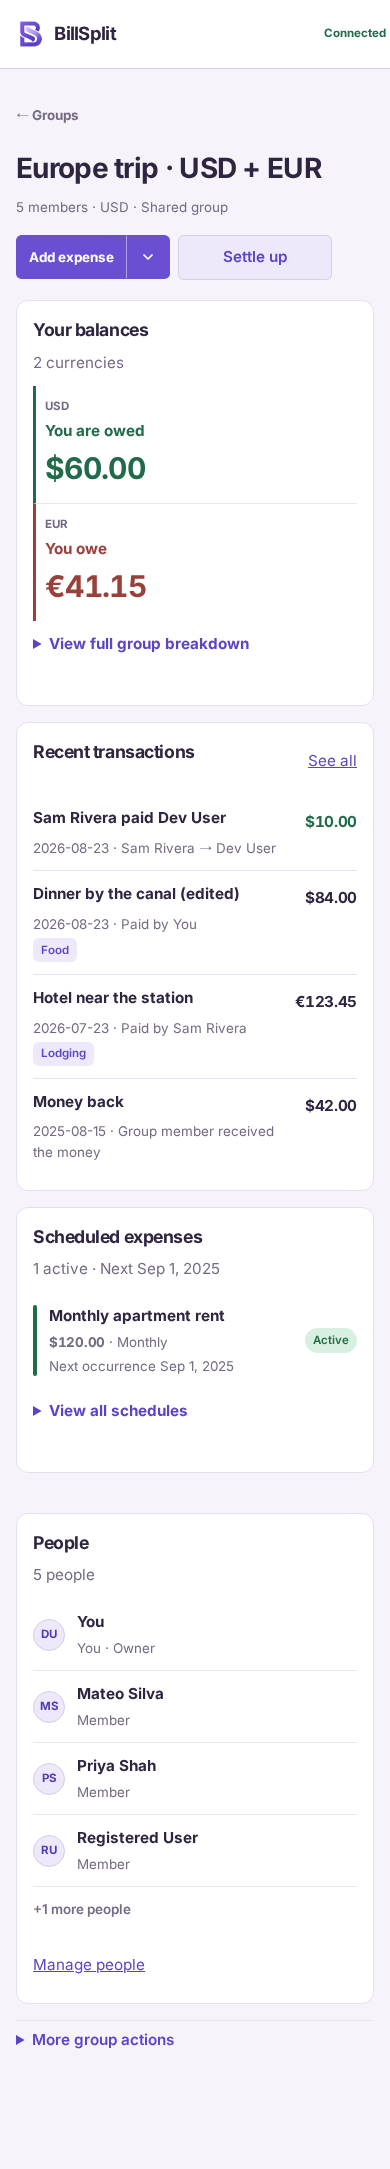
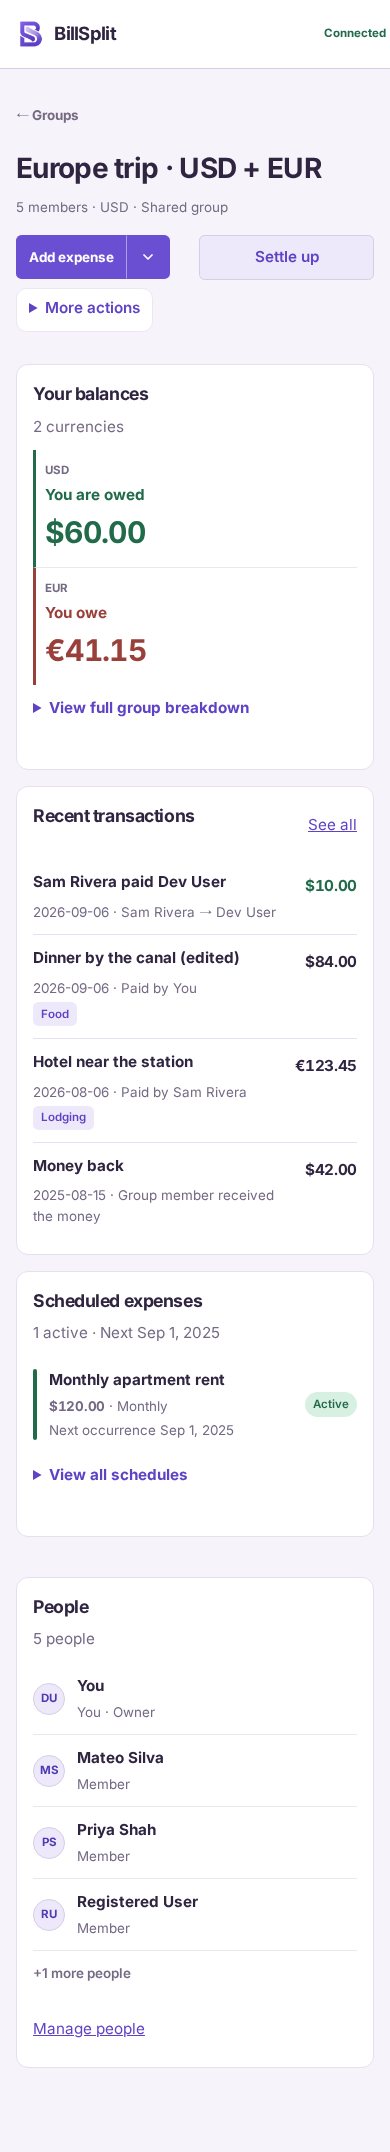
Refresh group history and insights reference screenshots

diff --git a/tests/e2e/group-reference-screenshots.spec.ts b/tests/e2e/group-reference-screenshots.spec.ts
@@ -1,0 +1,60 @@
+import path from 'node:path';
+import type { Page, TestInfo } from '@playwright/test';
+import { test, expect } from './fixtures';
+
+const groupId = '00000000-0000-4000-8000-000000003002';
+
+async function capture(page: Page, testInfo: TestInfo, name: string, fullPage = true) {
+  await page.evaluate(() => document.fonts.ready);
+  const file = `${name}.png`;
+  const destination = process.env.UPDATE_GROUP_SCREENSHOTS === '1'
+    ? path.join(process.cwd(), 'docs', 'screenshots', file)
+    : testInfo.outputPath(file);
+  await page.screenshot({
+    path: destination, fullPage, animations: 'disabled',
+    ...(fullPage ? { style: '.bottom-nav { visibility: hidden !important; }' } : {}),
+  });
+  await testInfo.attach(name, { path: destination, contentType: 'image/png' });
+}
+
+for (const [device, width, height] of [['mobile', 390, 844], ['desktop', 1440, 900]] as const) {
+  test(`seeded group reference screenshots at ${device} size`, async ({ authenticatedPage: page }, testInfo) => {
+    await page.setViewportSize({ width, height });
+    await page.goto(`/groups/${groupId}`);
+    await expect(page.getByRole('heading', { name: 'Recent transactions' })).toBeVisible();
+    await expect(page.getByText('Dinner by the canal (edited)', { exact: true }).first()).toBeVisible();
+    await expect(page.locator('.skeleton')).toHaveCount(0);
+    const tools = page.locator('.group-overview-tools');
+    await expect(tools).toHaveJSProperty('open', false);
+    await expect(page.getByRole('link', { name: 'Settle up', exact: true })).toBeVisible();
+    if (device === 'mobile') {
+      await expect(page.locator('.bottom-nav')).toBeVisible();
+      await capture(page, testInfo, 'group-overview-mobile-viewport', false);
+    }
+    await capture(page, testInfo, `warm-ledger-${device}`);
+    await tools.locator('summary').click();
+    for (const name of ['View spending insights', 'Group history', 'Group settings']) {
+      await expect(tools.getByRole('link', { name, exact: true })).toBeVisible();
+    }
+    await capture(page, testInfo, `group-overview-more-actions-open-${device}`);
+
+    await tools.getByRole('link', { name: 'Group history', exact: true }).click();
+    const back = page.getByRole('link', { name: '← Back to group', exact: true });
+    await expect(back).toHaveAttribute('href', `/groups/${groupId}`);
+    await expect(page.getByRole('combobox', { name: 'Filter history by group' })).toHaveValue(groupId);
+    await expect(page.locator('.skeleton')).toHaveCount(0);
+    await capture(page, testInfo, `warm-ledger-history-${device}`);
+
+    await page.goto(`/activity?group=${groupId}&view=insights&period=all&currency=USD`);
+    await expect(back).toHaveAttribute('href', `/groups/${groupId}`);
+    await expect(page.getByLabel('Spending insight filters').getByRole('combobox', { name: 'Period' })).toHaveValue('all');
+    await expect(page.getByRole('tab', { name: 'USD', exact: true })).toHaveAttribute('aria-selected', 'true');
+    const people = page.getByRole('region', { name: 'Spending by person' });
+    await expect(people).toBeVisible();
+    await expect(people.locator('li').first()).toContainText(/Allocated share.*Paid/s);
+    await expect(people.getByText('Highest payer', { exact: true }).first()).toBeVisible();
+    await expect(page.locator('.skeleton')).toHaveCount(0);
+    await capture(page, testInfo, `spending-insights-group-${device}`);
+    if (device === 'desktop') await capture(page, testInfo, 'warm-ledger-insights-desktop');
+  });
+}

diff --git a/docs/responsive-audit-matrix.md b/docs/responsive-audit-matrix.md
@@ -28,7 +28,7 @@ sections, accessible tabs and chart are checked at 390 and 1440px; other Insight
 widths and Home loading/cached/offline/empty/error states remain in the existing
 route audit and targeted fixtures, not this focused geometry spec.
 
-Loaded local-browser references from the merged-main UI with these fixes:
+Loaded local-browser references (Home/global references retain their earlier capture):
 `docs/screenshots/home-mobile.png` (390px, full page) and `home-desktop.png`
 (1440px viewport) show seeded Home; `home-sgd-stress-mobile.png` (390px,
 full page) and `home-sgd-stress-desktop.png` (1440px viewport) show the
@@ -42,6 +42,33 @@ summary and chart surfaces; `warm-ledger-insights-desktop.png` is the same
 1440px group Insights view. The mobile bottom navigation was confirmed live
 and hidden only for full-page capture to avoid a repeated fixed stripe. These
 references do not depict loading, cached, offline, empty, or error states.
+
+### Repeatable group references
+
+`tests/e2e/group-reference-screenshots.spec.ts` uses the authenticated seeded
+Europe trip group without API mocks. Regenerate only these group references:
+
+```sh
+PLAYWRIGHT_BROWSERS_PATH=/ms-playwright UPDATE_GROUP_SCREENSHOTS=1 npm run test:e2e:local -- tests/e2e/group-reference-screenshots.spec.ts --project=chromium --workers=1
+```
+
+Without the opt-in, captures are test attachments and do not overwrite tracked
+images. Fonts are ready and screenshot animations disabled. Mobile uses 390×844
+and desktop 1440×900 viewports; references are full-page except the explicitly
+named viewport image. Fixed bottom navigation is verified live and hidden only
+for full-page captures, not the viewport reference.
+
+- Closed overview: [mobile](screenshots/warm-ledger-mobile.png),
+  [desktop](screenshots/warm-ledger-desktop.png), and
+  [mobile viewport with fixed navigation](screenshots/group-overview-mobile-viewport.png).
+- Top More actions expanded: [mobile](screenshots/group-overview-more-actions-open-mobile.png)
+  and [desktop](screenshots/group-overview-more-actions-open-desktop.png).
+- Group Changes with Back to group: [mobile](screenshots/warm-ledger-history-mobile.png)
+  and [desktop](screenshots/warm-ledger-history-desktop.png).
+- Loaded group Insights (`period=all&currency=USD`) with real allocated share,
+  paid totals, and highest payer: [mobile](screenshots/spending-insights-group-mobile.png),
+  [desktop](screenshots/spending-insights-group-desktop.png), and the same
+  [Warm Ledger desktop reference](screenshots/warm-ledger-insights-desktop.png).
 
 The refund/reimbursement matrix below remains the release checklist for the
 dedicated online-only refund flow. The Warm Ledger states cover the newer
@@ -248,12 +275,12 @@ captures are distinct group-overview, refund-form, and focused-helper states.
 | Credit detail, deleted/restore | Restore is the only available mutation and is disabled offline | Tombstone copy remains visible | Tombstone copy remains visible | Restore remains a clear recovery action | Restore and error states remain readable without modal-only context | Restore and error states remain readable without modal-only context |
 | Group home / invitations | Financial status leads each group card; invitation actions remain reachable; empty-state actions stack without overlap; spending snapshot stays borderless | Empty and populated states retain separate, touch-sized creation actions; group cards precede the divider-separated spending snapshot | Group cards use a denser two-column grid; snapshot currency rows remain aligned | Check group-card-to-snapshot boundary without a second painted snapshot surface | Group cards align amount columns and participant metadata; snapshot remains borderless | Group cards align amount columns and participant metadata; snapshot remains borderless |
 | Home / compact insight, populated | Spending snapshot is a transparent, single-column ledger with divider rows | Same flattened metric reading order and no metric-card paint | Currency rows remain aligned without an enclosing card | Verify the compact snapshot remains flat at the breakpoint | Compact insight remains a secondary, borderless module after group cards | Compact insight remains a secondary, borderless module after group cards |
-| Group overview | Four compact macro-cards appear in DOM order: balances, transactions, schedules, people; More group actions follows collapsed | Same order with two-up full-width header actions, 44px controls, flat internal rows, and native lists | Single-column financial reading order; overview transaction rows stay concise | Verify no premature column reflow and no nested painted rows | Transparent structural columns contain balances→transactions and schedules→people; actions remain below all modules | Two-column columns are centered within the 68rem route and avoid implicit-grid whitespace |
+| Group overview | Add expense and Settle up precede top More actions; four macro-cards follow in DOM order: balances, transactions, schedules, people | Same order with 44px controls, flat internal rows, and native lists | Single-column financial reading order; overview transaction rows stay concise | Verify no premature column reflow and no nested painted rows | Top actions precede transparent structural columns containing balances→transactions and schedules→people | Two-column columns are centered within the 68rem route and avoid implicit-grid whitespace |
 | Group overview / balances loaded | Balance macro-card uses transparent divider-separated rows; sage/coral state is carried by amount text and a restrained accent edge, never a full-row band | Amounts remain prominent at roughly 30–32px without row borders or radii | Balance disclosure remains available and readable | Verify state accents do not become nested cards at the boundary | Main column begins with the balance macro-card | Main-column balance card aligns with the recent-transactions card |
 | Group overview / balance loading, error, or offline variants | Focused browser fixture covers the uncached card at 320px | Focused browser fixture covers the uncached card at 390px | Not separately exercised | Not separately exercised | Focused browser fixture covers the uncached card at 896px | Not separately exercised |
 | Group overview / fully cached reload | Focused browser fixture reloads cached group, balances, and transactions offline; schedules explicitly remain uncached | Not separately exercised | Not separately exercised | Not separately exercised | Not separately exercised | Not separately exercised |
 | Group overview / schedules and people | Populated preview and up to four person rows are visible; uncached-offline copy is announced after reload | Preview rows remain flat and overflow count is explicit; focused loading/error/empty/uncached-offline fixtures run here | Verify schedule actions remain in the disclosure, not the preview | Verify the disclosure remains keyboard and touch usable | Context column places schedules above people without changing focus order | Context cards align with the main column while preserving the mobile DOM order |
-| Group overview / secondary actions | More group actions is collapsed after people; quiet links remain discoverable | Disclosure keeps insights, credit, history, and settings below primary content | Verify no large tools surface competes with the four modules | Verify summary target and link rows remain at least 44px | Actions stay below both structural columns | Secondary actions remain progressively disclosed and visually quiet |
+| Group overview / secondary actions | Top More actions is collapsed after primary actions; opens in flow | Disclosure exposes insights, history, and settings, with no duplicate Record credit | Verify expanded links wrap without competing with modules | Verify summary target and link rows remain at least 44px | Disclosure stays above both structural columns and after primary actions | Secondary actions remain progressively disclosed and visually quiet |
 | Expense and schedule forms | Amount hero, split controls, and payer sheet fit without zoom | Payer sheet is bottom anchored and targets remain 44px | Verify form grouping and recurring preview | Verify 895/896 transition without focus loss | Payer dialog is centered; amount remains first | Payer dialog and schedule preview remain readable |
 | History and insights | Segmented tabs remain single-line with touch-safe links and contained horizontal overflow when needed; filter disclosure stays in flow; transaction/activity results use divider-separated ledger rows; history and insight outer containers remain flat | Same no-wrap tab treatment; transaction amounts align at row end without painted list containers | Chart/table fallback remains accessible; semantic insight sections remain structural | Verify boundary tab, search behavior, and no painted history/insights ancestor | Desktop rows align like a ledger; filters remain in flow; summary/chart modules are the intentional painted surfaces | Desktop rows align like a ledger; filters remain in flow; summary/chart modules are the intentional painted surfaces |
 | Management/settings | Editorial sections remain single-column; deletion is last and is the only tinted contained region; owner, unlinked, and linked member slots fit without overflow | People/invitations/defaults precede exports and destructive actions; member rows keep identity → optional email/invitation → actions order, with one shared action gap | Verify long names and disabled states | Verify boundary spacing and justified form/admin containment | Compact editorial sections preserve hierarchy without stacked cards; Export → Group settings has one stack-owned divider | Compact editorial sections preserve hierarchy without stacked cards |
@@ -274,8 +301,10 @@ full-width: schedule loading, API-error, empty, and uncached-offline states are
 exercised at 390px, while balance loading, API-error, and uncached-offline
 states are exercised at 320px, 390px, and 896px. The fully cached offline
 reload runs at 320px. Populated overview geometry runs at all six canonical
-widths; More group actions and View all schedules screenshots/disclosure
-geometry run at **320, 895, 896, and 1440px**.
+widths; top More actions closed/open behavior runs at all six widths in
+`insight-people.spec.ts`, with loaded references at 390 and 1440px above.
+View all schedules screenshots/disclosure geometry run at **320, 895, 896,
+and 1440px**.
 
 The chooser is loaded online first and then switched offline at **320, 895,
 896, and 1440px**. Its Expense action remains enabled from the loaded group
